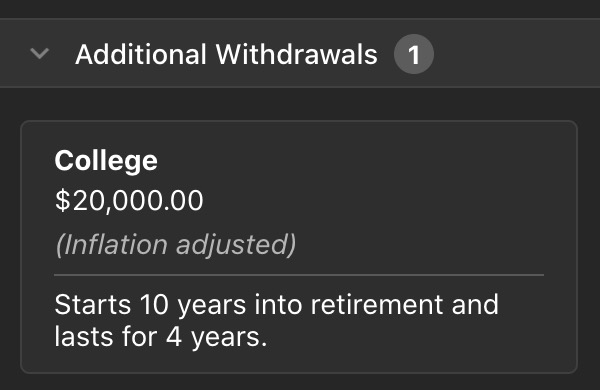
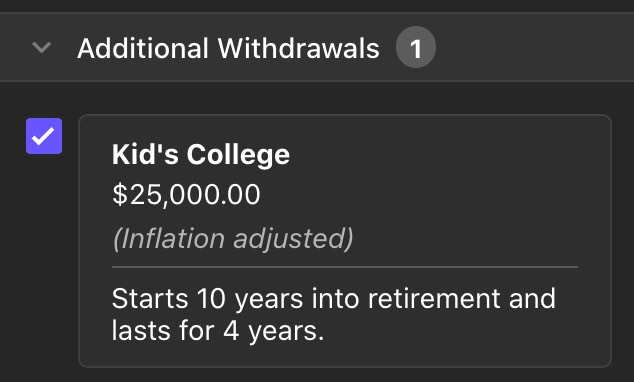
Add guides for disabling income/withdrawals

diff --git a/src/configuration/additional-income.md b/src/configuration/additional-income.md
@@ -88,15 +88,35 @@ do so, click the target Additional Income in the list, and the edit window will
 appear. Make your changes, and then click Save.
 
 <figure>
-    <img width="237px" src="/images/configuration-income-summary.jpg" alt="Additional Income summary box.">
+    <img width="316px" src="/images/configuration-income-summary.jpg" alt="Additional Income summary box.">
     <figcaption>Click an additional income summary within Configuration to make changes.</figcaption>
+</figure>
+
+## Disabling One or More Additional Income Sources
+
+You can temporarily disable an additional income source, which will re-run the
+same calculation without factoring that income in.
+
+This can be useful to quickly see the impact of different income sources on your
+portfolio. Maybe you're considering getting a part time job, but you're not
+committed to it. Or maybe you wish to see how much impact your Social Security
+estimate has on your success rate.
+
+Disabling income is a quick way to "turn off" income while still allowing you to
+add it back into your calculation should you decide to.
+
+To disable an Additional Income, uncheck the checkbox next to the income in the
+Configuration pane.
+
+<figure>
+    <img width="316px" src="/images/configuration-income-summary.jpg" alt="The checkbox you can uncheck to disable an Additional Income.">
+    <figcaption>Uncheck this checkbox to disable the additional income.</figcaption>
 </figure>
 
 ## Deleting Additional Income
 
 To delete an Additional Income that you have created, click an existing
 Additional Income to open the Edit window. Then, click on the "Delete" button.
-The Additional Income will be deleted.
 
 <figure>
     <picture>

diff --git a/src/configuration/additional-withdrawals.md b/src/configuration/additional-withdrawals.md
@@ -87,15 +87,29 @@ To do so, click the target Additional Withdrawal in the list, and the edit
 window will appear. Make your changes, and then click Save.
 
 <figure>
-    <img width="300px" src="/images/configuration-withdrawal-summary.jpg" alt="Additional Withdrawal summary box.">
+    <img width="317px" src="/images/configuration-withdrawal-summary.jpg" alt="Additional Withdrawal summary box.">
     <figcaption>Click an additional withdrawal summary within Configuration to make changes.</figcaption>
+</figure>
+
+## Disabling One or More Additional Withdrawals
+
+You can temporarily disable an additional withdrawal to quickly see how it
+affects your rate of success. This can be more convenient than deleting it,
+because you can quickly enable it again at any time.
+
+To disable an Additional Withdrawal, uncheck the checkbox next to the target
+withdrawal in the Configuration pane.
+
+<figure>
+    <img width="317px" src="/images/configuration-withdrawal-summary.jpg" alt="The checkbox you can uncheck to disable an Additional Withdrawal.">
+    <figcaption>Uncheck this checkbox to disable an additional withdrawal.</figcaption>
 </figure>
 
 ## Deleting Additional Withdrawal
 
 To delete an Additional Withdrawal that you have created, click an existing
 Additional Withdrawal to open the Edit window. Then, click on the "Delete"
-button. The Additional Withdrawal will be deleted.
+button.
 
 <figure>
     <picture>
